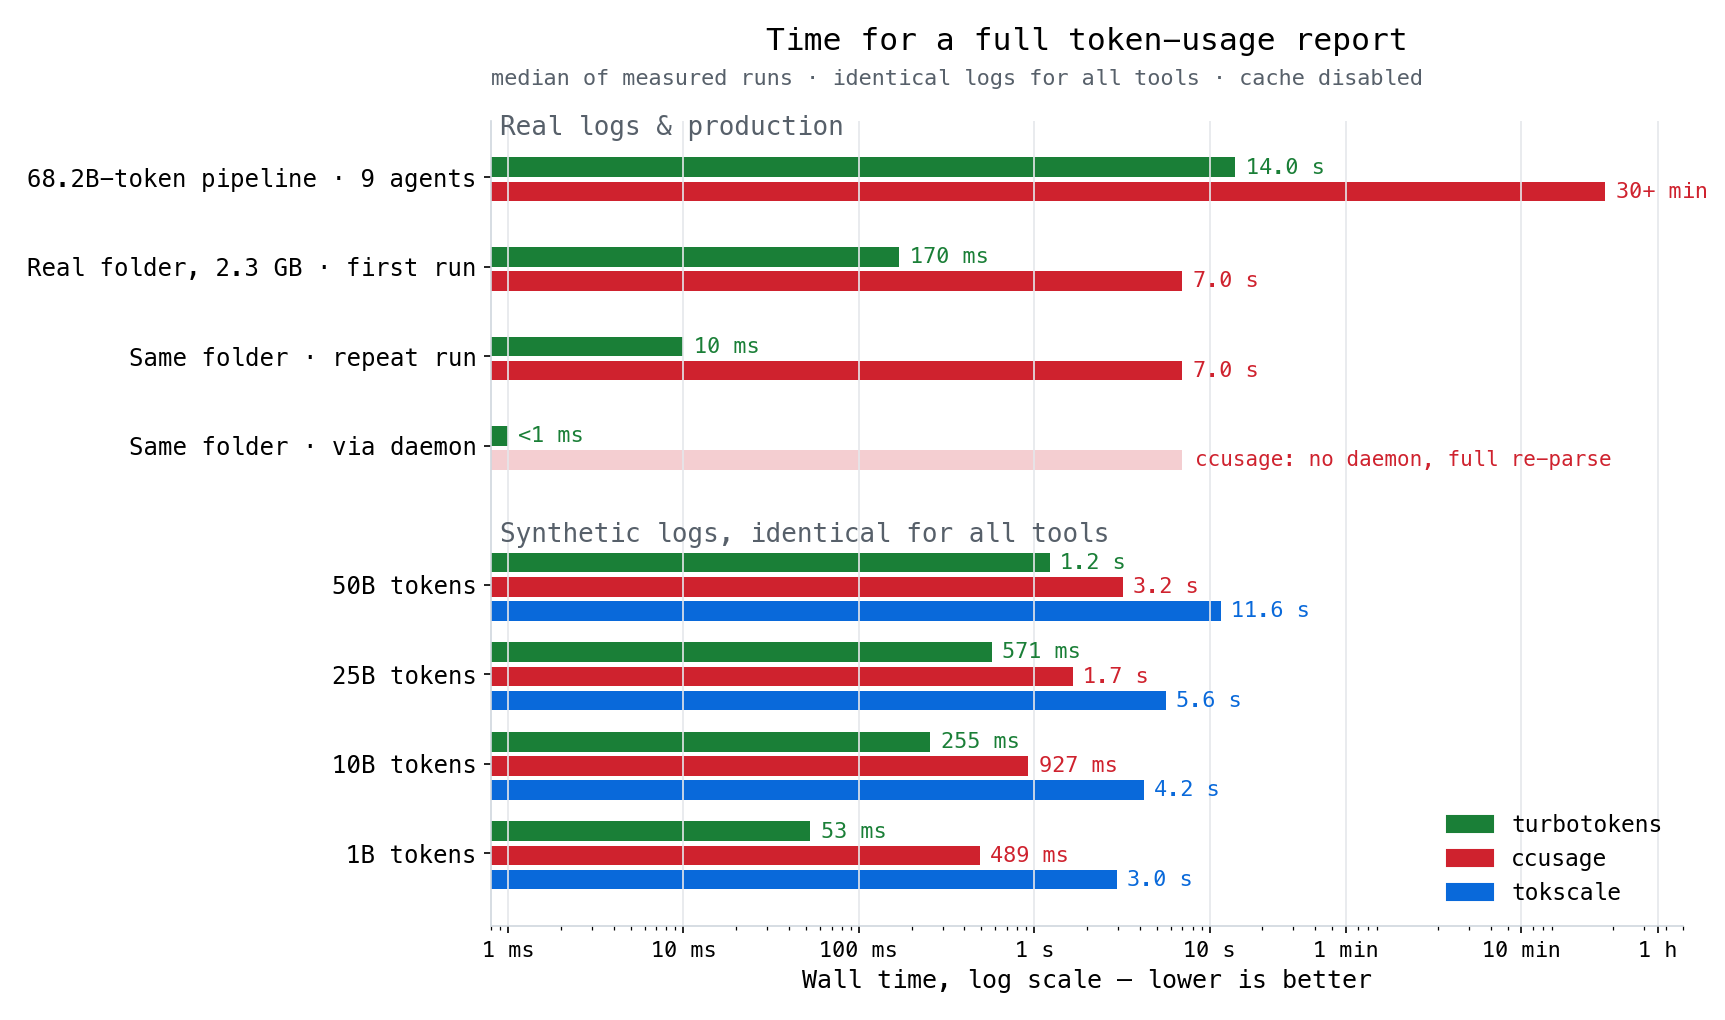
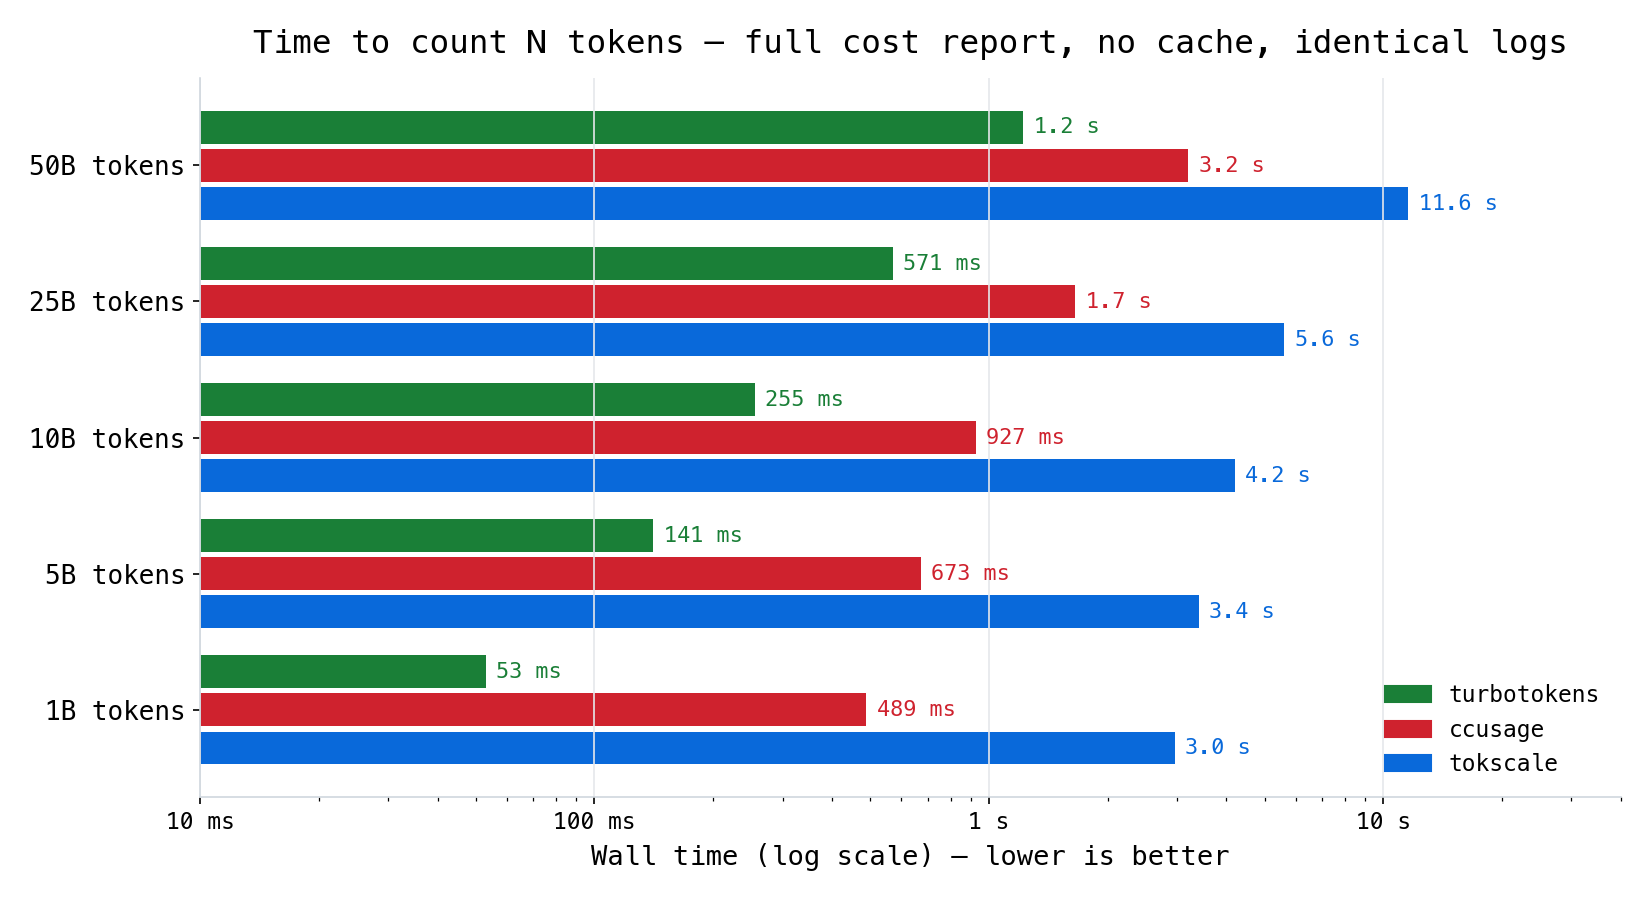
bench chart: one message per chart
The combined chart was confusing. scaling-chart.png is now just the
synthetic scaling series (5 rows x 3 tools, grouped bars). The
real-world gaps move back to speed-chart.png, re-referenced in the
Comparison section.

diff --git a/rust/bench/plot_scaling.py b/rust/bench/plot_scaling.py
@@ -1,8 +1,8 @@
 #!/usr/bin/env python3
-"""Render assets/scaling-chart.png — one organized grouped-bar chart.
+"""Render assets/scaling-chart.png — time to count N tokens, grouped bars.
 
-Sections: synthetic scaling series (1B-50B, from scaling-bench results CSV),
-then real-world runs (real folder, repeat, daemon, production pipeline).
+Five rows (1B-50B tokens), three tools each, log-scale time axis.
+One message: turbotokens is fastest at every size.
 Usage: plot_scaling.py results.csv out.png
 """
 import sys
@@ -23,73 +23,40 @@ for line in open(csv_path):
 GREEN, RED, BLUE, GRAY = "#1a7f37", "#cf222e", "#0969da", "#57606a"
 
 def fmt(s):
-    if s <= 0.001:
-        return "<1 ms"
-    if s < 1:
-        return f"{s*1000:.0f} ms"
-    return f"{s:.1f} s" if s < 60 else f"{s/60:.0f}+ min"
+    return f"{s*1000:.0f} ms" if s < 1 else f"{s:.1f} s"
 
-# (kind, label, {tool: seconds or None}, note)
-# kind: "header" or "bars"
-ROWS = [
-    ("header", "Real logs & production", {}, ""),
-    ("bars", "68.2B-token pipeline · 9 agents", {"turbotokens": 14.0, "ccusage": 1800.0}, ""),
-    ("bars", "Real folder, 2.3 GB · first run", {"turbotokens": 0.170, "ccusage": 7.0}, ""),
-    ("bars", "Same folder · repeat run", {"turbotokens": 0.010, "ccusage": 7.0}, ""),
-    ("bars", "Same folder · via daemon", {"turbotokens": 0.001, "ccusage": None}, "ccusage: no daemon, full re-parse"),
-    ("header", "Synthetic logs, identical for all tools", {}, ""),
-    ("bars", "50B tokens", {"turbotokens": syn[("turbotokens", 50)], "ccusage": syn[("ccusage", 50)], "tokscale": syn[("tokscale", 50)]}, ""),
-    ("bars", "25B tokens", {"turbotokens": syn[("turbotokens", 25)], "ccusage": syn[("ccusage", 25)], "tokscale": syn[("tokscale", 25)]}, ""),
-    ("bars", "10B tokens", {"turbotokens": syn[("turbotokens", 10)], "ccusage": syn[("ccusage", 10)], "tokscale": syn[("tokscale", 10)]}, ""),
-    ("bars", "1B tokens", {"turbotokens": syn[("turbotokens", 1)], "ccusage": syn[("ccusage", 1)], "tokscale": syn[("tokscale", 1)]}, ""),
-]
-
+SIZES = [50, 25, 10, 5, 1]  # top to bottom
 TOOLS = [("turbotokens", GREEN), ("ccusage", RED), ("tokscale", BLUE)]
 
 plt.rcParams.update({
     "font.family": "Menlo", "figure.facecolor": "white", "axes.facecolor": "white",
     "axes.edgecolor": "#d0d7de", "axes.grid": True, "grid.color": "#e5e7eb",
-    "grid.linewidth": 0.8, "font.size": 12,
+    "grid.linewidth": 0.8, "font.size": 13,
 })
 
-fig, ax = plt.subplots(figsize=(11.5, 6.8), dpi=150)
+fig, ax = plt.subplots(figsize=(11, 6), dpi=150)
 
-BAR_H, GAP = 0.22, 0.05
-y = 0.0
+BAR_H = 0.24
 y_ticks, y_labels = [], []
-for kind, label, data, note in ROWS:
-    if kind == "header":
-        ax.text(9e-4, y, label, fontsize=12.5, fontweight="bold", color=GRAY,
-                va="center")
-        y -= 0.55
-        continue
-    y_ticks.append(y)
-    y_labels.append(label)
-    present = [(t, c) for t, c in TOOLS if t in data]
-    for i, (tool, color) in enumerate(present):
-        secs = data[tool]
-        yy = y + (len(present) - 1 - i) * (BAR_H + GAP) - (len(present) * (BAR_H + GAP)) / 2 + BAR_H / 2
-        if secs is None:
-            ax.barh(yy, 7.0, height=BAR_H, color=color, alpha=0.22)
-            ax.annotate(note, (7.0, yy), textcoords="offset points",
-                        xytext=(6, -3), color=color, fontsize=10, style="italic")
-        else:
-            ax.barh(yy, secs, height=BAR_H, color=color)
-            ax.annotate(fmt(secs), (secs, yy), textcoords="offset points",
-                        xytext=(5, -3), color=color, fontsize=10.5, fontweight="bold")
-    y -= 1.0
+for row, n in enumerate(SIZES):
+    yc = len(SIZES) - 1 - row
+    y_ticks.append(yc)
+    y_labels.append(f"{n}B tokens")
+    for i, (tool, color) in enumerate(TOOLS):
+        secs = syn[(tool, n)]
+        yy = yc + (1 - i) * (BAR_H + 0.04)
+        ax.barh(yy, secs, height=BAR_H, color=color)
+        ax.annotate(fmt(secs), (secs, yy), textcoords="offset points", xytext=(5, -3),
+                    color=color, fontsize=10.5, fontweight="bold")
 
 ax.set_yticks(y_ticks)
-ax.set_yticklabels(y_labels, fontsize=11.5)
+ax.set_yticklabels(y_labels, fontsize=12.5)
 ax.set_xscale("log")
-ax.set_xlim(8e-4, 5000)
-ax.set_xticks([0.001, 0.01, 0.1, 1, 10, 60, 600, 3600])
-ax.set_xticklabels(["1 ms", "10 ms", "100 ms", "1 s", "10 s", "1 min", "10 min", "1 h"],
-                   fontsize=10.5)
-ax.set_xlabel("Wall time, log scale — lower is better")
-ax.set_title("Time for a full token-usage report", fontsize=15, pad=34)
-ax.text(0.0, 1.045, "median of measured runs · identical logs for all tools · cache disabled",
-        transform=ax.transAxes, fontsize=10.5, color=GRAY)
+ax.set_xlim(0.03, 40)
+ax.set_xticks([0.01, 0.1, 1, 10])
+ax.set_xticklabels(["10 ms", "100 ms", "1 s", "10 s"], fontsize=11)
+ax.set_xlabel("Wall time (log scale) — lower is better")
+ax.set_title("Time to count N tokens — full cost report, no cache, identical logs", pad=12)
 ax.legend(handles=[mpatches.Patch(color=c, label=t) for t, c in TOOLS],
           frameon=False, loc="lower right", fontsize=11)
 ax.spines[["top", "right"]].set_visible(False)

diff --git a/README.md b/README.md
@@ -89,6 +89,8 @@ Same report, same 2.3 GB of Claude Code logs, same machine. turbotokens cold = c
 | Same report again | **10 ms** | re-parses every file, every run |
 | Codex token accuracy | matches an independent raw-log parser to 0.0001% | double-counts Codex `token_count` events (+10.16B tokens over-reported on a 68B-token dataset) |
 
+<img src="assets/speed-chart.png" alt="Real-world timing: real 2.3 GB log folder — turbotokens 170 ms cold / 10 ms warm vs ccusage 6–8.5 s; 68.2B-token production scan — 14 s vs 30+ min" width="900">
+
 Capabilities, broader field ([tokscale](https://github.com/junhoyeo/tokscale) and [token-monitor](https://github.com/Javis603/token-monitor) are the other substantial multi-agent tools):
 
 | | turbotokens | tokscale | token-monitor | ccusage | claude-code-usage-monitor | Menu-bar apps |
